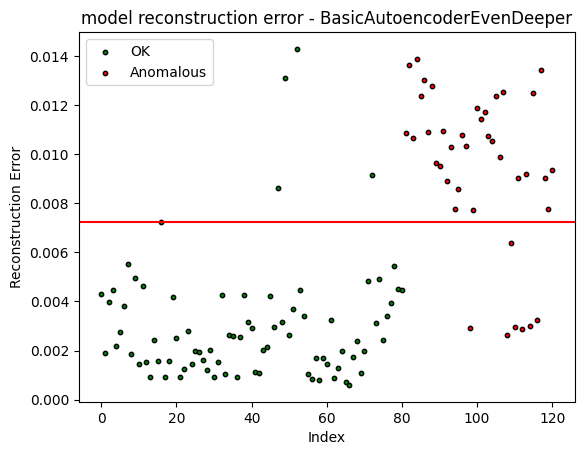
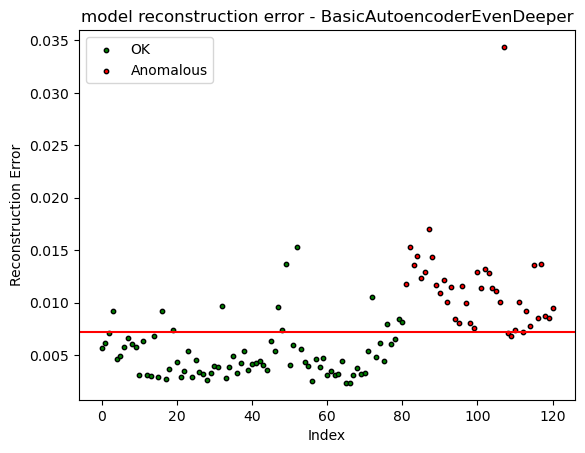
Saved the greatest model from the brink of abyss

diff --git a/graph_from_saved_model.py b/graph_from_saved_model.py
@@ -10,7 +10,7 @@ img_height = 768
 
 epochs = 50
 batch_size = 4
-is_data_filtered = ""
+is_data_filtered = "filtered_"
 
 
 model = BasicAutoencoderEvenDeeper()
